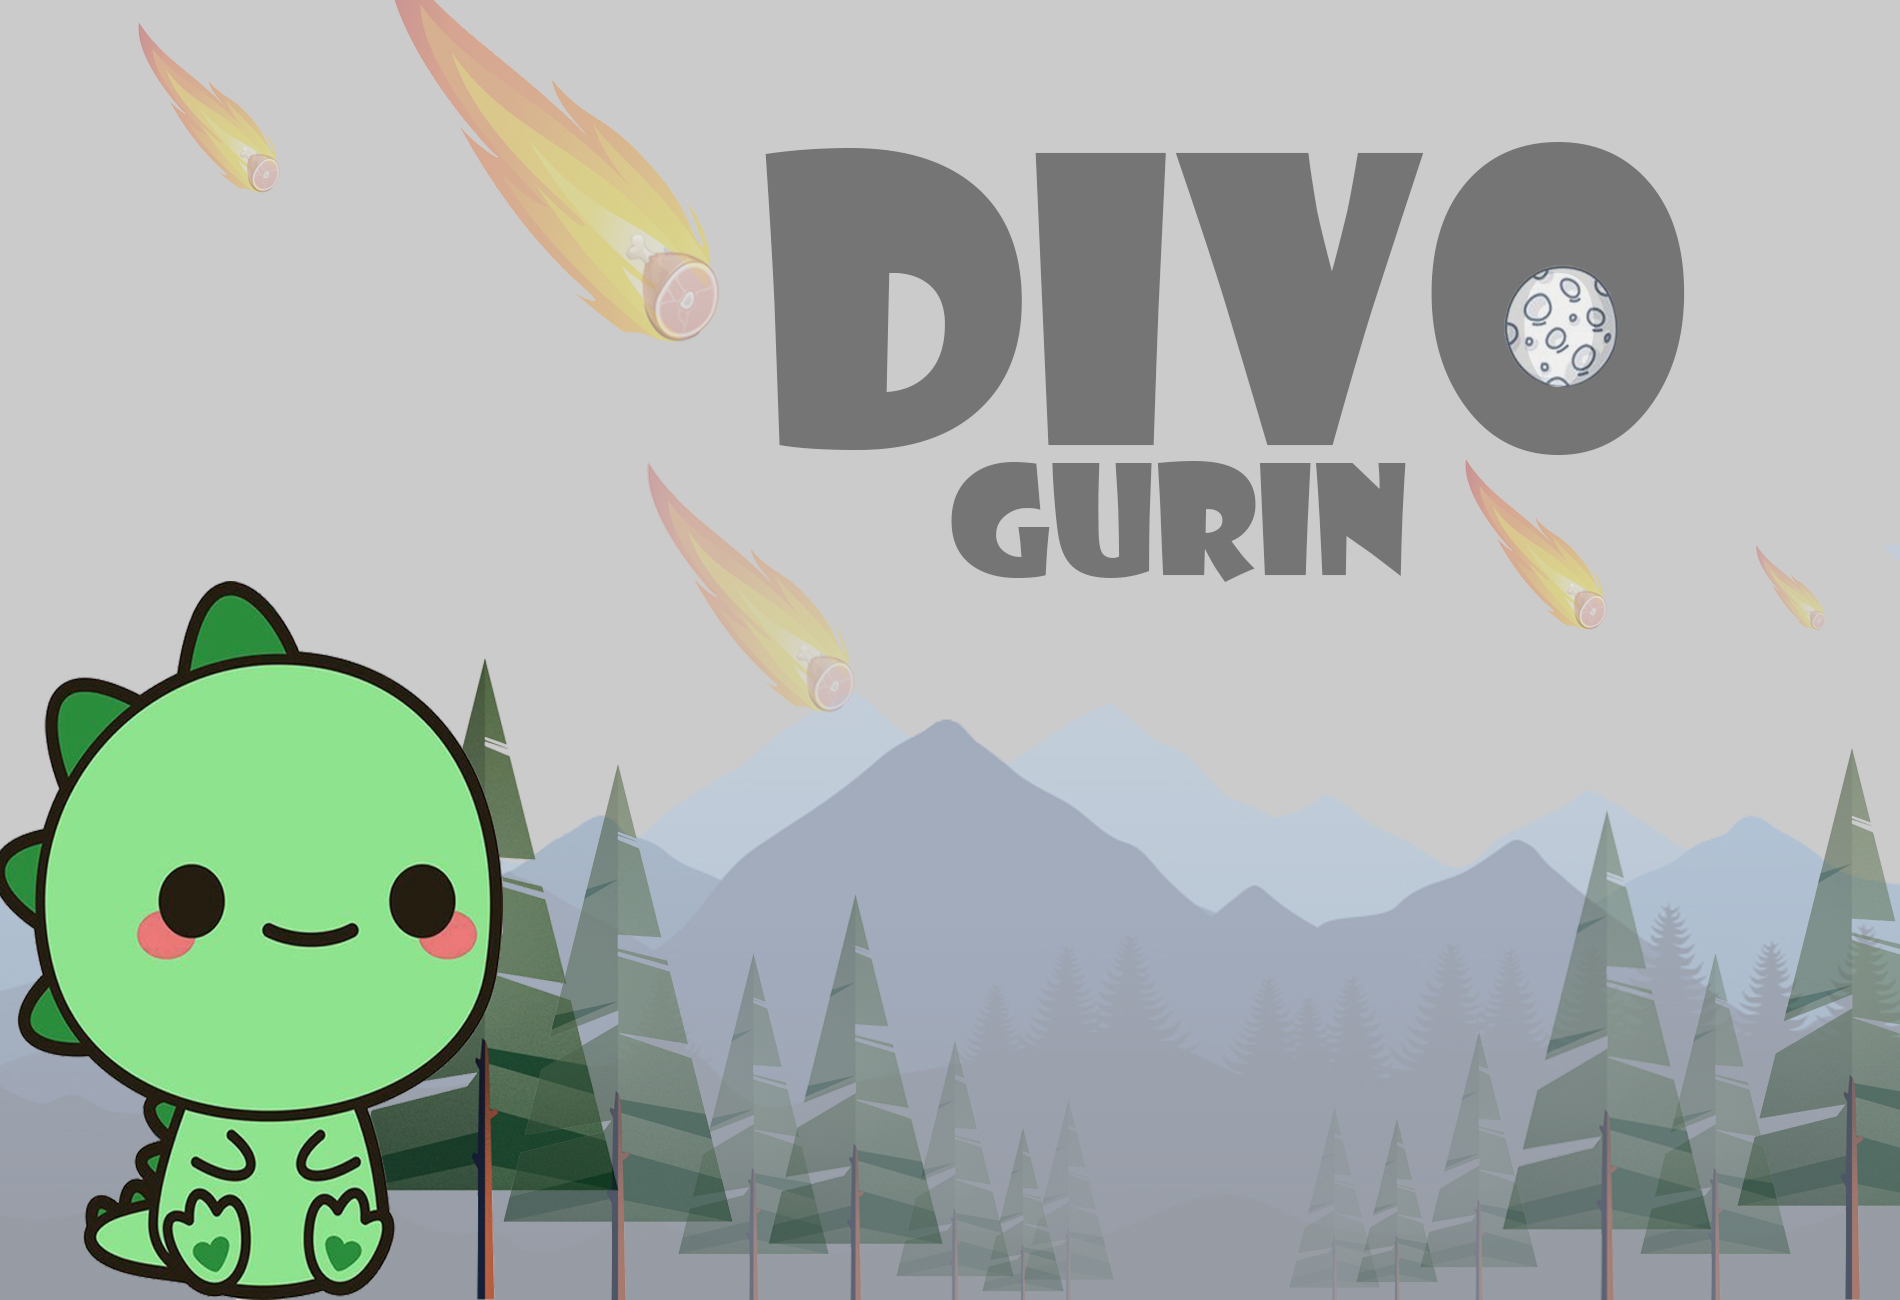
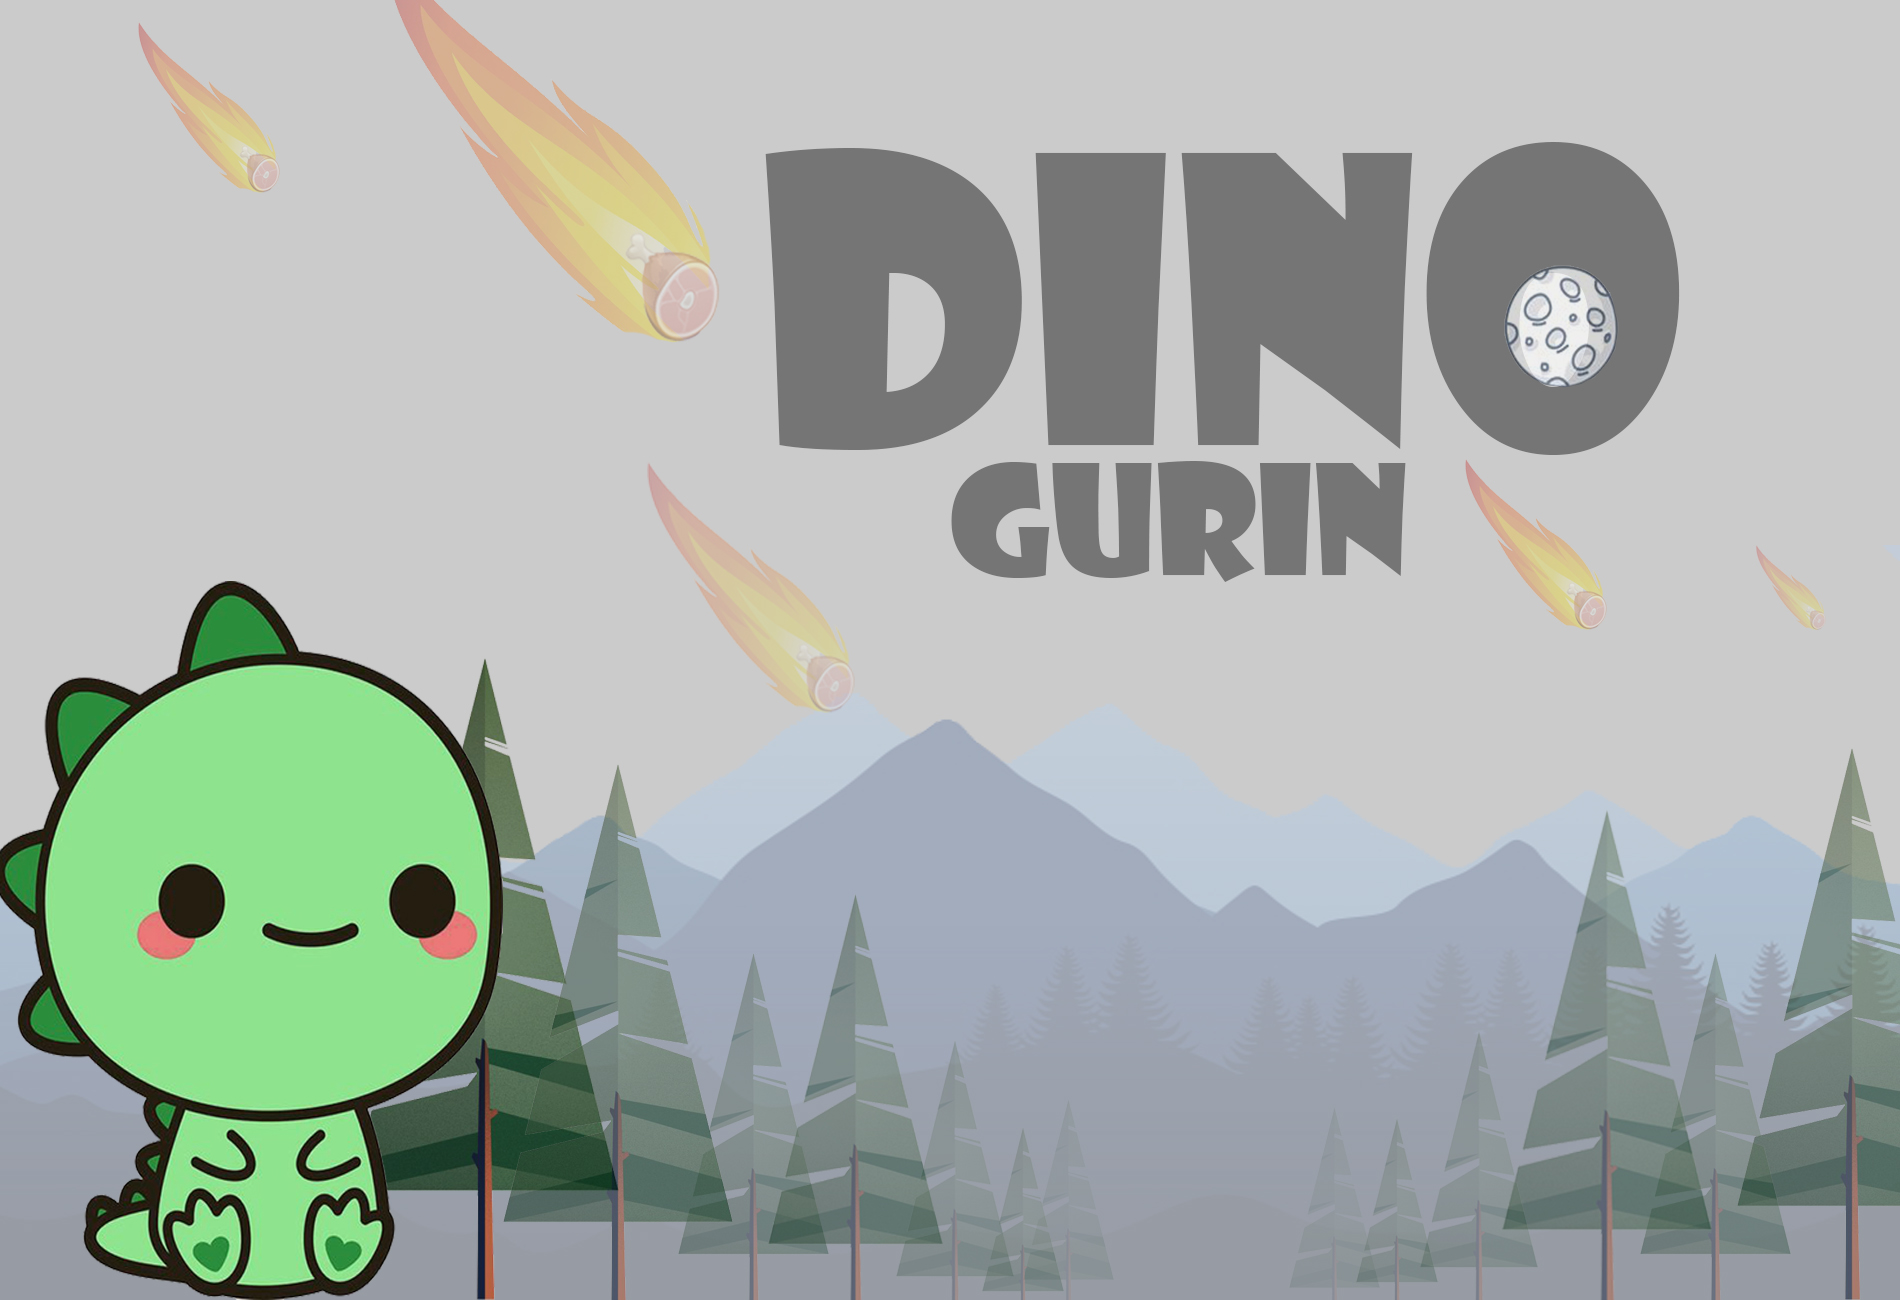
index update
edit text in pic dino

Changed region(s): [[0.6211, 0.1231, 0.7453, 0.3692]]

diff --git a/fruitDrop.js b/fruitDrop.js
@@ -4,7 +4,7 @@ function fDrop(x){
 	y += 1;
 	//var position = document.querySelector('#fruit[x]');
 	document.querySelector('#fruit').setAttribute('y',y);
-	if (y >= 10){
+	if (y == 10){
 		clearInterval(fdrop);
 	}
 	console.log(y);
